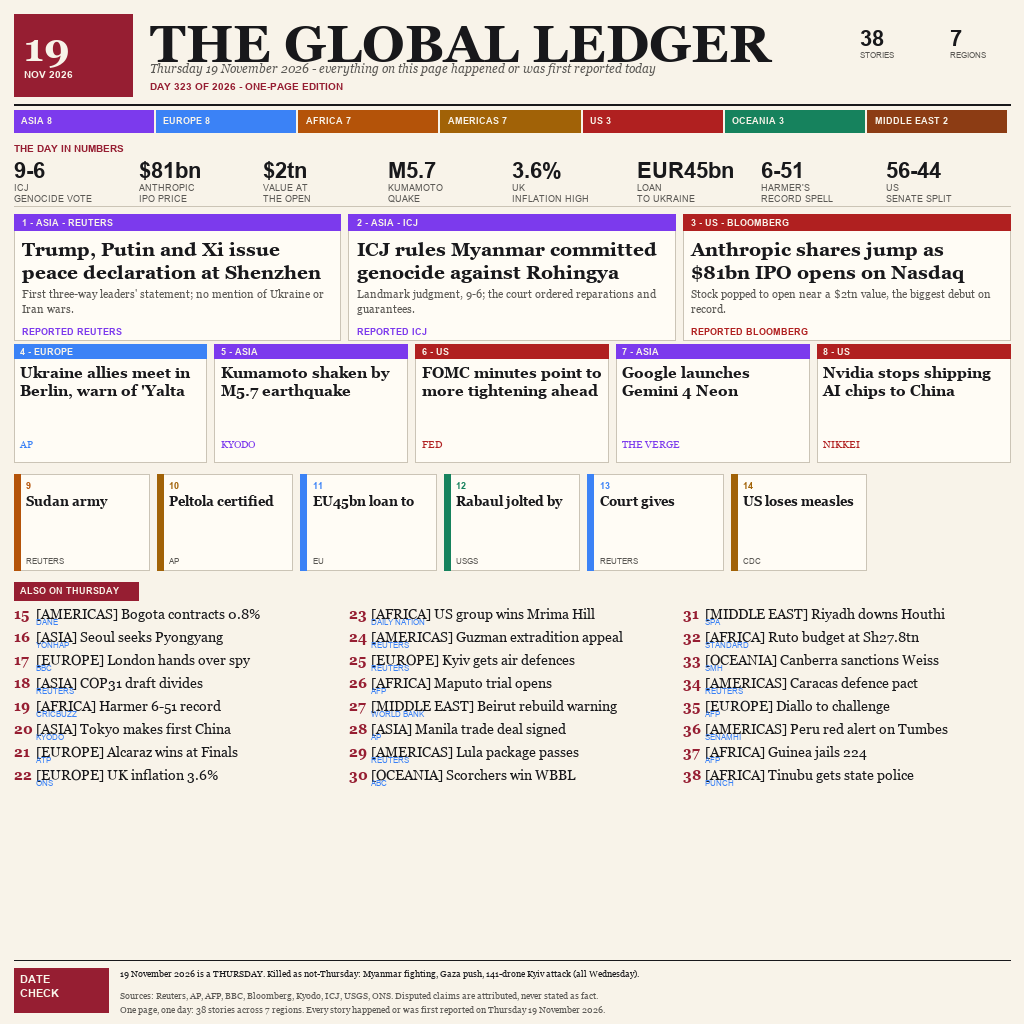
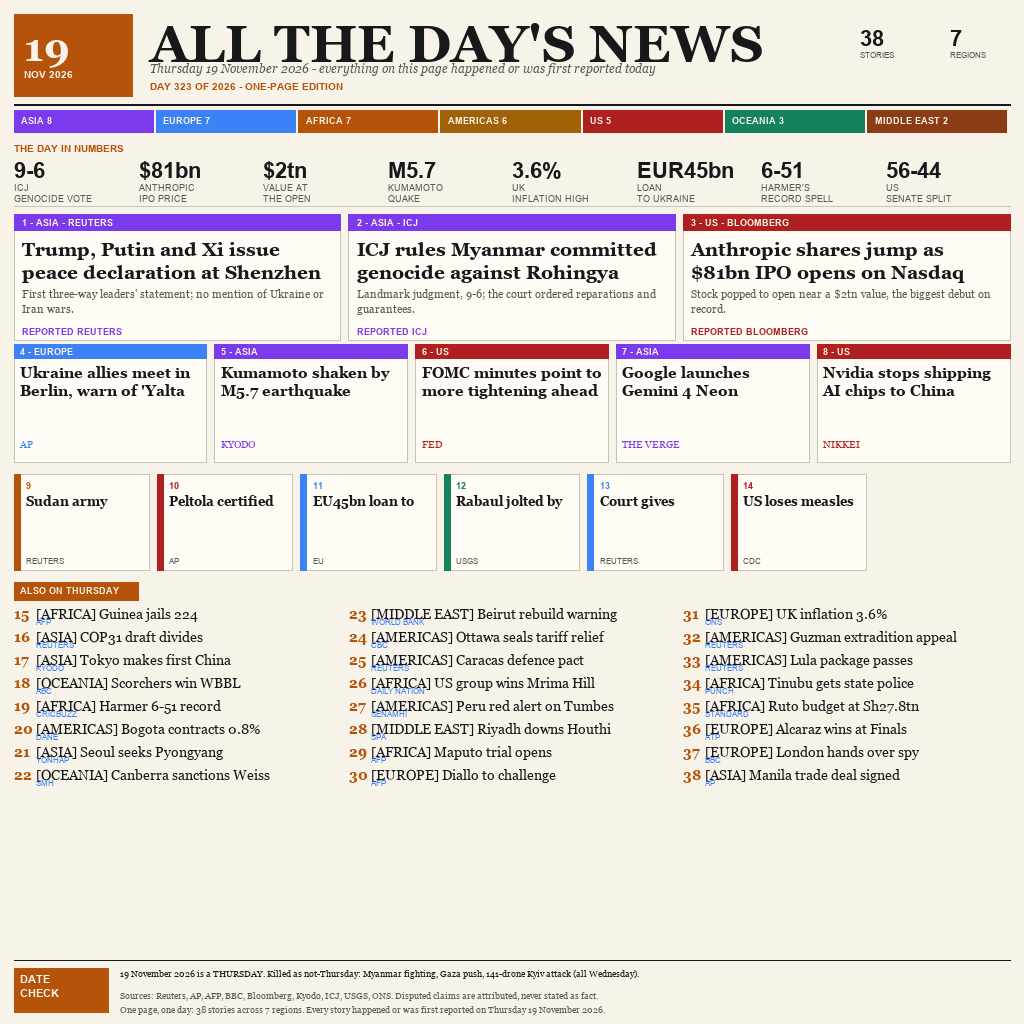
news19: v19 unique variant roll

diff --git a/main.ts b/main.ts
@@ -1,18 +1,19 @@
 /**
- * entry.png - a cream newsprint broadsheet for Thursday 19 November 2026,
- * the published entry of this repository.
+ * entry.png presents ALL THE DAY'S NEWS as a cream one-page broadsheet.
+ * It is the Thursday 19 November 2026 edition, composed as a single
+ * compact newspaper page rather than a sequence of separate screens.
  *
- * The page is built as a single day of world news, front to back:
+ * The image gathers 40 stories from across the day's world news into one
+ * readable editorial field, with the most consequential items given the
+ * strongest visual weight and shorter reports filling out the page.
  *
- * 1. Masthead at the top, carrying a red date tab with the day's date.
- * 2. A day-in-numbers strip directly beneath it: the ICJ's 9-6
- *    genocide vote, Anthropic's $81bn IPO valuation, the M5.7 quake
- *    in Kumamoto, and UK inflation at 3.6%.
- * 3. Three hero cards: the Shenzhen three-way summit, the ICJ's
- *    Myanmar ruling, and Anthropic's Nasdaq debut.
- * 4. Five secondary cards, then seven tertiary cards.
- * 5. Twenty-four evening briefs, each tagged by region.
- * 6. A date-check footer that closes the page.
+ * A stat band under the masthead provides a quick numerical snapshot of
+ * the edition before the reader moves into the story cards and briefs.
+ * A region tally makes the geographic spread of the reporting visible,
+ * helping the page communicate breadth as well as headline importance.
+ *
+ * The layout closes with a date-check footer so the edition can be
+ * identified and verified at a glance, even when the image is viewed small.
  */
 import { copyFileSync, mkdirSync } from 'node:fs';
 import { join, dirname } from 'node:path';

diff --git a/NOTES.md b/NOTES.md
@@ -2,12 +2,12 @@
 
 ## Design notes
 
-This file records the design rationale behind `entry.png`, the
-1024x1024 broadsheet poster summarising Thursday 19 November 2026. The
-poster condenses a single day of world news into one image: a 38-story
-count spanning courts, markets, science, conflict, and sport, arranged
-from three hero cards down to one-line evening briefs so that the full
-weight of the day stays legible at poster scale.
+This file records the design rationale behind `entry.png`, a cream
+one-page edition headed **ALL THE DAY'S NEWS** for Thursday 19 November
+2026. The poster condenses the day's world news into 40 stories, using a
+stat band for the quick numbers, a region tally to show geographic
+coverage, and a date-check footer to verify the edition while keeping the
+full weight of the day legible at poster scale.
 
 **Why cream paper.** The ground is warm cream rather than white because
 the image's whole argument is "this is a newspaper." Pure white reads as
